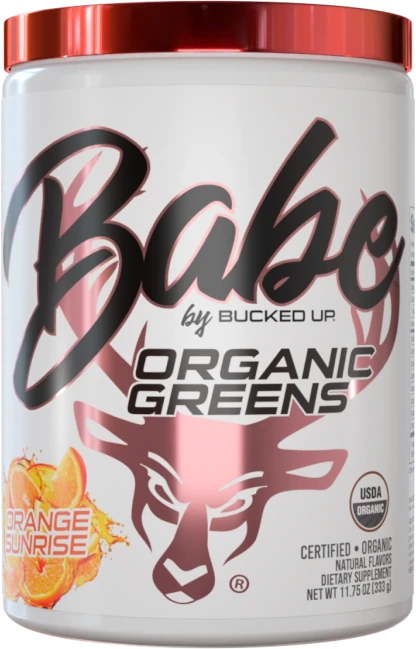
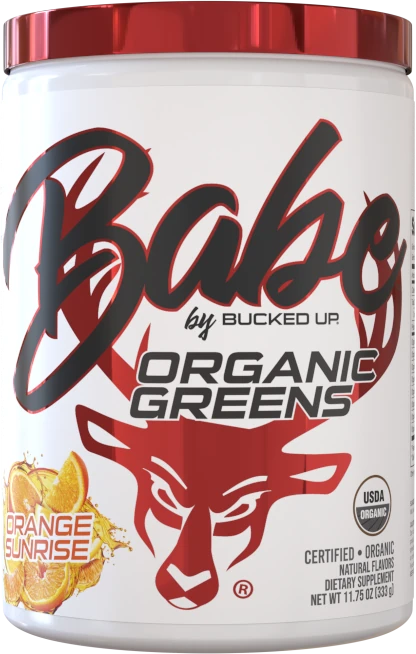
troca imagens e cores

diff --git a/src/scss/pages/index.css b/src/scss/pages/index.css
@@ -1,1 +1,1 @@
-*{box-sizing:border-box !important}a{text-decoration:none !important}main{overflow:unset !important}a,button{cursor:pointer;transition:.3s}*[role=button]{cursor:pointer;-webkit-user-select:none;-moz-user-select:none;user-select:none}svg{transition:.3s}.swiper-button-lock{display:none !important}.swiper-slide{height:unset}button,input,textarea{padding:0;margin:0;background:none;border:none;resize:none}button:hover,button:active,button:focus,input:hover,input:active,input:focus,textarea:hover,textarea:active,textarea:focus{outline:none}select{cursor:pointer}.swiper{-webkit-user-select:none;-moz-user-select:none;user-select:none}html,body,div,span,applet,object,iframe,h1,h2,h3,h4,h5,h6,p,blockquote,pre,a,abbr,acronym,address,big,cite,code,del,dfn,em,img,ins,kbd,q,s,samp,small,strike,strong,sub,sup,tt,var,b,u,i,center,dl,dt,dd,ol,ul,li,fieldset,form,label,legend,table,caption,tbody,tfoot,thead,tr,th,td,article,aside,canvas,details,embed,figure,figcaption,footer,header,hgroup,menu,nav,output,ruby,section,summary,time,mark,audio,video{margin:0;padding:0;border:0;font-size:100%;font:inherit;vertical-align:baseline}article,aside,details,figcaption,figure,footer,header,hgroup,menu,nav,section{display:block}body{line-height:1}ol,ul{list-style:none}blockquote,q{quotes:none}blockquote:before,blockquote:after,q:before,q:after{content:"";content:none}table{border-collapse:collapse;border-spacing:0}body{font-family:Poppins;background-color:#ffd7ce}.h1{color:#000;font-size:3.75rem;font-style:normal;font-weight:900;line-height:120%}@media(max-width: 1125px){.h1{font-size:1.6875rem}}.h4{color:#000;font-size:2rem;font-style:normal;font-weight:700;line-height:normal}@media(max-width: 1125px){.h4{font-size:1.375rem}}.h5{color:#000;font-size:1.625rem;font-style:normal;font-weight:700;line-height:normal}.h6{color:#000;font-size:1.1875rem;font-style:normal;font-weight:900;line-height:85.2%}@media(max-width: 1125px){.h6{font-size:1rem;font-weight:700}}.p{color:#000;font-size:1rem;font-style:normal;font-weight:400;line-height:normal}.p.bold{font-weight:700}.container{width:100%;max-width:70rem;margin:auto;padding:0 1.25rem}.btn{border-radius:6.25rem;border:1px solid #ffa296;background:var(--botao, linear-gradient(180deg, rgba(241, 124, 109, 0.14) 0%, #864840 100%));color:#000;text-align:center;text-shadow:-2px -2px 0px rgba(0,0,0,.25);font-size:3.75rem;font-style:normal;font-weight:900;line-height:normal;padding:1.88rem 2rem;width:100%;display:block;transition:0s}.btn:hover,.btn:focus{border:1px solid #ffa296;background:linear-gradient(180deg, rgba(0, 0, 0, 0.78) 0%, #0c0100 100%);color:#ff8373}@media(max-width: 1125px){.btn{padding:1.88rem;font-size:2.5rem}}.custom-pagination-bullet{width:7rem;height:-moz-fit-content;height:fit-content;background:none;transition:.3s}.swiper-pagination-bullet:not(.swiper-pagination-bullet-active){opacity:.4 !important}.swiper-pagination{position:static !important;margin:.5rem auto 0 auto !important;display:flex;justify-content:center;gap:1rem}.header{position:fixed;top:0;left:0;width:100%;z-index:999;padding:1.75rem 0;background:#ffd7ce}.header+div{padding-top:13rem}.header .container{display:flex;align-items:center}.header ul{display:flex;align-items:center;gap:1.56rem;text-transform:uppercase;margin-left:3.2rem}.header ul li a{display:block;color:#000;font-size:.875rem;font-style:normal;font-weight:800;line-height:normal;padding-bottom:1.3125rem;position:relative}.header ul li a:after{content:"";position:absolute;left:0;bottom:0;width:100%;height:.3125rem;border-radius:1.875rem;background:rgba(64,54,51,.3);transition:.3s}.header ul li a:hover:after,.header ul li a:focus:after,.header ul li a.active:after{background-color:#482b2e}.header__btn{color:#000;font-size:.875rem;font-style:normal;font-weight:700;line-height:normal;padding:.69rem 1.88rem;border-radius:6.25rem;border:1px solid #000;text-transform:uppercase;margin-left:2.81rem}.header__btn:hover,.header__btn:focus{background-color:#281819;border-color:#281819;color:#ff8375}.header__mobile-button{display:none;flex-shrink:0;padding:0;background:none;flex-direction:column;justify-content:center;align-items:center;gap:.375rem;width:2.375rem;border:none}.header__mobile-button span{width:100%;height:.3125rem;border-radius:.25rem;background-color:#000;display:block;transition:.3s}.header__mobile-button.active span:nth-child(2){width:0}.header__mobile-button.active span:nth-child(1){transform:translateY(0.6875rem) rotate(-45deg)}.header__mobile-button.active span:nth-child(3){transform:translateY(-0.6875rem) rotate(45deg)}@media(max-width: 1125px){.header{padding:1.19rem 0}.header+div{padding-top:6.5656rem}.header__mobile-button{display:flex}.header__btn{margin:0;padding:.69rem .625rem;width:100%;max-width:11.56rem;white-space:nowrap;text-align:center}.header .container{gap:10px}.header__logo{max-width:5.83rem;margin-right:auto}.header__logo img{width:100%}.header ul{position:absolute;top:100%;left:0;width:100vw;height:calc(100vh - 5.5656rem);margin:0;background-color:#ffd7ce;flex-direction:column;gap:1.06rem;max-height:0;transition:.3s;overflow:hidden}.header ul.active{display:flex;padding-top:2.69rem;max-height:100vh}}.main .animation-helper{contain:paint}.main__container{position:relative;display:flex;gap:5.5rem}.main__container section{width:100%}.main__container:not(.active){display:none}.main__container .content{width:57.9%}.main__img{position:sticky;top:13rem;width:32.5%;height:-moz-fit-content;height:fit-content;max-width:26rem;animation:forwards fadeIn .5s}.main__img .swiper img{max-height:calc(100vh - 23.3125rem)}.main__img img{max-height:calc(100vh - 14.3125rem);-o-object-fit:scale-down;object-fit:scale-down;width:100%}.main__img__img{width:100%}@media(max-width: 1125px){.main__img{position:static;width:100%;max-width:17rem;margin:auto}}@media(max-width: 1125px){.main__container .content{width:100%}}.main__bg{position:fixed;z-index:-1;top:0;left:0;width:100vw;height:100vh;min-width:75rem;background:var(--radialo-novo, radial-gradient(221.11% 86.4% at 74.11% 52.3%, #ffaea3 0%, #ffa190 27.06%, #fe8272 48.5%));transition:.3s;transform:scaleX(1.2) rotate(15deg)}.main__bg.alternate{transform:scaleX(1.2) rotate(-15deg)}.main__bg img{width:100%;height:100%;-o-object-fit:cover;object-fit:cover;display:none}@media(max-width: 1125px){.main__bg{background:radial-gradient(176.6% 80.71% at 74.11% 52.3%, #ffaea3 0%, #ffa190 27.06%, #fe8272 48.5%)}}@keyframes fadeIn{from{transform:translateX(30vw);filter:blur(17px)}to{transform:translateX(0);filter:blur(0)}}.banner{margin-bottom:3.75rem}.banner .iframe{position:relative;-webkit-user-select:none;-moz-user-select:none;user-select:none;border-radius:1.875rem;overflow:hidden;margin:2.75rem 0;aspect-ratio:16/9}.banner .iframe iframe{width:100%;height:100%}.banner .iframe:after{content:"";width:100%;height:100%;position:absolute;top:0;left:0}.banner .p{margin:1rem 0}.banner .h6{margin-top:3.38rem}@media(max-width: 1125px){.banner{margin-bottom:1.94rem}.banner .h1{text-align:center;margin-bottom:1rem}.banner .iframe{margin:1rem 0}.banner .h6{margin:1.5rem 0}}.benefits .h1{margin-bottom:2rem}.benefits__benefit{display:flex;align-items:center;justify-content:space-between;gap:3.31rem;margin-bottom:3.46rem}.benefits__benefit img{max-width:13.4375rem}.benefits__benefit:nth-child(even){flex-direction:row-reverse}@media(max-width: 1125px){.benefits__benefit{gap:1.25rem}.benefits__benefit img{max-width:10.1875rem}}.key-ingredients{margin-bottom:4rem}.key-ingredients .h1{margin-bottom:2rem}.key-ingredients ul{display:flex;flex-wrap:wrap;gap:1.6rem 1.25rem;margin-bottom:3rem}.key-ingredients ul li{flex:1 1 15.9375rem}
+*{box-sizing:border-box !important}a{text-decoration:none !important}main{overflow:unset !important}a,button{cursor:pointer;transition:.3s}*[role=button]{cursor:pointer;-webkit-user-select:none;-moz-user-select:none;user-select:none}svg{transition:.3s}.swiper-button-lock{display:none !important}.swiper-slide{height:unset}button,input,textarea{padding:0;margin:0;background:none;border:none;resize:none}button:hover,button:active,button:focus,input:hover,input:active,input:focus,textarea:hover,textarea:active,textarea:focus{outline:none}select{cursor:pointer}.swiper{-webkit-user-select:none;-moz-user-select:none;user-select:none}html,body,div,span,applet,object,iframe,h1,h2,h3,h4,h5,h6,p,blockquote,pre,a,abbr,acronym,address,big,cite,code,del,dfn,em,img,ins,kbd,q,s,samp,small,strike,strong,sub,sup,tt,var,b,u,i,center,dl,dt,dd,ol,ul,li,fieldset,form,label,legend,table,caption,tbody,tfoot,thead,tr,th,td,article,aside,canvas,details,embed,figure,figcaption,footer,header,hgroup,menu,nav,output,ruby,section,summary,time,mark,audio,video{margin:0;padding:0;border:0;font-size:100%;font:inherit;vertical-align:baseline}article,aside,details,figcaption,figure,footer,header,hgroup,menu,nav,section{display:block}body{line-height:1}ol,ul{list-style:none}blockquote,q{quotes:none}blockquote:before,blockquote:after,q:before,q:after{content:"";content:none}table{border-collapse:collapse;border-spacing:0}body{font-family:Poppins;background-color:#ffe9dd}.h1{color:#000;font-size:3.75rem;font-style:normal;font-weight:900;line-height:120%}@media(max-width: 1125px){.h1{font-size:1.6875rem}}.h4{color:#000;font-size:2rem;font-style:normal;font-weight:700;line-height:normal}@media(max-width: 1125px){.h4{font-size:1.375rem}}.h5{color:#000;font-size:1.625rem;font-style:normal;font-weight:700;line-height:normal}.h6{color:#000;font-size:1.1875rem;font-style:normal;font-weight:900;line-height:85.2%}@media(max-width: 1125px){.h6{font-size:1rem;font-weight:700}}.p{color:#000;font-size:1rem;font-style:normal;font-weight:400;line-height:normal}.p.bold{font-weight:700}.container{width:100%;max-width:70rem;margin:auto;padding:0 1.25rem}.btn{border-radius:6.25rem;border:1px solid #ffa296;background:linear-gradient(180deg, #f17c6d 0%, #864840 100%);color:#000;text-align:center;text-shadow:-2px -2px 0px rgba(0,0,0,.25);font-size:3.75rem;font-style:normal;font-weight:900;line-height:normal;padding:1.88rem 2rem;width:100%;display:block;transition:0s}.btn:hover,.btn:focus{border:1px solid #d55353;background:linear-gradient(180deg, rgba(0, 0, 0, 0.78) 0%, #0c0100 100%);color:#d55353}@media(max-width: 1125px){.btn{padding:1.88rem;font-size:2.5rem}}.custom-pagination-bullet{width:7rem;height:-moz-fit-content;height:fit-content;background:none;transition:.3s}.swiper-pagination-bullet:not(.swiper-pagination-bullet-active){opacity:.4 !important}.swiper-pagination{position:static !important;margin:.5rem auto 0 auto !important;display:flex;justify-content:center;gap:1rem}.header{position:fixed;top:0;left:0;width:100%;z-index:999;padding:1.75rem 0;background:#ffe9dd}.header+div{padding-top:13rem}.header .container{display:flex;align-items:center}.header ul{display:flex;align-items:center;gap:1.31rem;text-transform:uppercase;margin-left:3.2rem}.header ul li a{display:block;color:#000;font-size:.875rem;font-style:normal;font-weight:800;line-height:normal;padding-bottom:1.3125rem;position:relative}.header ul li a:after{content:"";position:absolute;left:0;bottom:0;width:100%;height:.3125rem;border-radius:1.875rem;background:rgba(64,54,51,.3);transition:.3s}.header ul li a:hover:after,.header ul li a:focus:after,.header ul li a.active:after{background-color:#d55353}.header__btn{color:#000;font-size:.875rem;font-style:normal;font-weight:700;line-height:normal;padding:.69rem 1.88rem;border-radius:6.25rem;border:1px solid #000;text-transform:uppercase;margin-left:2.81rem}.header__btn:hover,.header__btn:focus{background-color:#281819;border-color:#281819;color:#d55353}.header__mobile-button{display:none;flex-shrink:0;padding:0;background:none;flex-direction:column;justify-content:center;align-items:center;gap:.375rem;width:2.375rem;border:none}.header__mobile-button span{width:100%;height:.3125rem;border-radius:.25rem;background-color:#000;display:block;transition:.3s}.header__mobile-button.active span:nth-child(2){width:0}.header__mobile-button.active span:nth-child(1){transform:translateY(0.6875rem) rotate(-45deg)}.header__mobile-button.active span:nth-child(3){transform:translateY(-0.6875rem) rotate(45deg)}@media(max-width: 1125px){.header{padding:1.19rem 0}.header+div{padding-top:6.5656rem}.header__mobile-button{display:flex}.header__btn{margin:0;padding:.69rem .625rem;width:100%;max-width:11.56rem;white-space:nowrap;text-align:center}.header .container{gap:10px}.header__logo{max-width:5.83rem;margin-right:auto}.header__logo img{width:100%}.header ul{position:absolute;top:100%;left:0;width:100vw;height:calc(100vh - 5.5656rem);margin:0;background-color:#ffe9dd;flex-direction:column;gap:1.06rem;max-height:0;transition:.3s;overflow:hidden}.header ul.active{display:flex;padding-top:2.69rem;max-height:100vh}}.main .animation-helper{contain:paint}.main__container{position:relative;display:flex;gap:5.5rem}.main__container section{width:100%}.main__container:not(.active){display:none}.main__container .content{width:57.9%}.main__img{position:sticky;top:13rem;width:32.5%;height:-moz-fit-content;height:fit-content;max-width:26rem;animation:forwards fadeIn .5s}.main__img .swiper img{max-height:calc(100vh - 23.3125rem)}.main__img img{max-height:calc(100vh - 14.3125rem);-o-object-fit:scale-down;object-fit:scale-down;width:100%}.main__img__img{width:100%}@media(max-width: 1125px){.main__img{position:static;width:100%;max-width:17rem;margin:auto}}@media(max-width: 1125px){.main__container .content{width:100%}}.main__bg{position:fixed;z-index:-1;top:0;left:0;width:100vw;height:100vh;min-width:75rem;background:var(--radialo-novo, radial-gradient(221.11% 86.4% at 74.11% 52.3%, #ffaea3 0%, #ffa190 27.06%, #fe8272 48.5%));transition:.3s;transform:scaleX(1.2) rotate(15deg)}.main__bg.alternate{transform:scaleX(1.2) rotate(-15deg)}.main__bg img{width:100%;height:100%;-o-object-fit:cover;object-fit:cover;display:none}@media(max-width: 1125px){.main__bg{background:radial-gradient(176.6% 80.71% at 74.11% 52.3%, #ffaea3 0%, #ffa190 27.06%, #fe8272 48.5%)}}@keyframes fadeIn{from{transform:translateX(30vw);filter:blur(17px)}to{transform:translateX(0);filter:blur(0)}}.banner{margin-bottom:3.75rem}.banner .iframe{position:relative;-webkit-user-select:none;-moz-user-select:none;user-select:none;border-radius:1.875rem;overflow:hidden;margin:2.75rem 0;aspect-ratio:16/9}.banner .iframe iframe{width:100%;height:100%}.banner .iframe:after{content:"";width:100%;height:100%;position:absolute;top:0;left:0}.banner .p{margin:1rem 0}.banner .h6{margin-top:3.38rem}@media(max-width: 1125px){.banner{margin-bottom:1.94rem}.banner .h1{text-align:center;margin-bottom:1rem}.banner .iframe{margin:1rem 0}.banner .h6{margin:1.5rem 0}}.benefits .h1{margin-bottom:2rem}.benefits__benefit{display:flex;align-items:center;justify-content:space-between;gap:3.31rem;margin-bottom:3.46rem}.benefits__benefit img{max-width:13.4375rem}.benefits__benefit:nth-child(even){flex-direction:row-reverse}@media(max-width: 1125px){.benefits__benefit{gap:1.25rem}.benefits__benefit img{max-width:10.1875rem}}.key-ingredients{margin-bottom:4rem}.key-ingredients .h1{margin-bottom:2rem}.key-ingredients ul{display:flex;flex-wrap:wrap;gap:1.6rem 1.25rem;margin-bottom:3rem}.key-ingredients ul li{flex:1 1 15.9375rem}

diff --git a/index.html b/index.html
@@ -25,9 +25,10 @@
     <section class="header">
       <nav class="container">
         <a href="/" class="header__logo">
-          <img src="https://v.fastcdn.co/u/0c47ee1e/64522816-0-logo.svg" loading="lazy" alt="Babe by Bucked Up">
+          <img src="https://v.fastcdn.co/u/0c47ee1e/64540048-0-logo.svg" loading="lazy" alt="Babe by Bucked Up">
         </a>
         <ul>
+          <li><a href="https://get.buckedup.com/babelp">home</a></li>
           <li><a class="page-link" to="pre-workout">pre-workout</a></li>
           <li><a class="page-link" to="greens">organic greens</a></li>
           <li><a class="page-link" to="collagen">collagen</a></li>
@@ -129,23 +130,23 @@
               <div class="swiper-slide">
                 <picture>
                   <source media="(min-width:1126px)"
-                    srcset="https://v.fastcdn.co/u/0c47ee1e/64522442-0-pre-fruit-punch.webp">
-                  <img src="https://v.fastcdn.co/u/0c47ee1e/64522443-0-pre-fruit-punch-mobi.webp"
+                    srcset="https://v.fastcdn.co/u/0c47ee1e/64540070-0-pre-fruit-punch.webp">
+                  <img src="https://v.fastcdn.co/u/0c47ee1e/64540069-0-pre-fruit-punch-mobi.webp"
                     alt="Pre Fruit Punch">
                 </picture>
               </div>
               <div class="swiper-slide">
                 <picture>
                   <source media="(min-width:1126px)"
-                    srcset="https://v.fastcdn.co/u/0c47ee1e/64522444-0-pre-grape.webp">
-                  <img src="https://v.fastcdn.co/u/0c47ee1e/64522445-0-pre-grape-mobile.webp" alt="Pre Grape">
+                    srcset="https://v.fastcdn.co/u/0c47ee1e/64540068-0-pre-orchard.webp">
+                  <img src="https://v.fastcdn.co/u/0c47ee1e/64540067-0-pre-orchard-mobile.webp" alt="Pre Sparkling Orchard">
                 </picture>
               </div>
               <div class="swiper-slide">
                 <picture>
                   <source media="(min-width:1126px)"
-                    srcset="https://v.fastcdn.co/u/0c47ee1e/64522446-0-pre-watermelon.webp">
-                  <img src="https://v.fastcdn.co/u/0c47ee1e/64522447-0-pre-watermelon-mobil.webp"
+                    srcset="https://v.fastcdn.co/u/0c47ee1e/64540066-0-pre-watermelon.webp">
+                  <img src="https://v.fastcdn.co/u/0c47ee1e/64540065-0-pre-watermelon-mobil.webp"
                     alt="Pre Watermelon">
                 </picture>
               </div>
@@ -250,8 +251,8 @@
         </div>
         <div class="main__img">
           <picture>
-            <source media="(min-width:1126px)" srcset="https://v.fastcdn.co/u/0c47ee1e/64522439-0-organic.webp">
-            <img class="main__img__img" src="https://v.fastcdn.co/u/0c47ee1e/64522440-0-organic-mobile.webp"
+            <source media="(min-width:1126px)" srcset="https://v.fastcdn.co/u/0c47ee1e/64540060-0-organic.webp">
+            <img class="main__img__img" src="https://v.fastcdn.co/u/0c47ee1e/64540059-0-organic-mobile.webp"
               alt="Organic Greens">
           </picture>
         </div>
@@ -348,17 +349,17 @@
               <div class="swiper-slide">
                 <picture>
                   <source media="(min-width:1126px)"
-                    srcset="https://v.fastcdn.co/u/0c47ee1e/64522421-0-collagen-chocolate.webp">
-                  <img src="https://v.fastcdn.co/u/0c47ee1e/64522422-0-collagen-chocolate-m.webp"
+                    srcset="https://v.fastcdn.co/u/0c47ee1e/64540064-0-collagen-chocolate.webp">
+                  <img src="https://v.fastcdn.co/u/0c47ee1e/64540063-0-collagen-chocolate-m.webp"
                     alt="Collagen Chocolate">
                 </picture>
               </div>
               <div class="swiper-slide">
                 <picture>
                   <source media="(min-width:1126px)"
-                    srcset="https://v.fastcdn.co/u/0c47ee1e/64522419-0-collagen-blueberry-p.webp">
+                    srcset="https://v.fastcdn.co/u/0c47ee1e/64540062-0-collagen-blueberry.webp">
                   <img
-                    src="https://v.fastcdn.co/u/0c47ee1e/64522420-0-collagen-blueberry-p.webp"
+                    src="https://v.fastcdn.co/u/0c47ee1e/64540061-0-collagen-blueberry-m.webp"
                     alt="Collagen Blueberry Pomegranate">
                 </picture>
               </div>
@@ -463,8 +464,8 @@
         </div>
         <div class="main__img">
           <picture>
-            <source media="(min-width:1126px)" srcset="https://v.fastcdn.co/u/0c47ee1e/64522432-0-love.webp">
-            <img class="main__img__img" src="https://v.fastcdn.co/u/0c47ee1e/64522435-0-love-mobile.webp"
+            <source media="(min-width:1126px)" srcset="https://v.fastcdn.co/u/0c47ee1e/64540052-0-babe-love.webp">
+            <img class="main__img__img" src="https://v.fastcdn.co/u/0c47ee1e/64540051-0-babe-love-mobile.webp"
               alt="Babe Love">
           </picture>
         </div>
@@ -586,9 +587,9 @@
         <div class="main__img">
           <picture>
             <source media="(min-width:1126px)"
-              srcset="https://v.fastcdn.co/u/0c47ee1e/64522403-0-babe-balance.webp">
+              srcset="https://v.fastcdn.co/u/0c47ee1e/64540050-0-babe-balance.webp">
             <img class="main__img__img"
-              src="https://v.fastcdn.co/u/0c47ee1e/64522404-0-babe-balance-mobile.webp" alt="Babe Balance">
+              src="https://v.fastcdn.co/u/0c47ee1e/64540049-0-babe-balance-mobile.webp" alt="Babe Balance">
           </picture>
         </div>
       </div>
@@ -679,24 +680,24 @@
               <div class="swiper-slide">
                 <picture>
                   <source media="(min-width:1126px)"
-                    srcset="https://v.fastcdn.co/u/0c47ee1e/64522415-0-boost-pineapple.webp">
-                  <img src="https://v.fastcdn.co/u/0c47ee1e/64522416-0-boost-pineapple-mobi.webp"
+                    srcset="https://v.fastcdn.co/u/0c47ee1e/64540056-0-boost-pineapple.webp">
+                  <img src="https://v.fastcdn.co/u/0c47ee1e/64540055-0-boost-pineapple-mobi.webp"
                     alt="Boost Green Pineapple">
                 </picture>
               </div>
               <div class="swiper-slide">
                 <picture>
                   <source media="(min-width:1126px)"
-                    srcset="https://v.fastcdn.co/u/0c47ee1e/64522405-0-boost-black-cherry.webp">
-                  <img src="https://v.fastcdn.co/u/0c47ee1e/64522406-0-boost-black-cherry-m.webp"
+                    srcset="https://v.fastcdn.co/u/0c47ee1e/64540054-0-boost-blackberry.webp">
+                  <img src="https://v.fastcdn.co/u/0c47ee1e/64540053-0-boost-blackberry-mob.webp"
                     alt="Boost Black Cherry">
                 </picture>
               </div>
               <div class="swiper-slide">
                 <picture>
                   <source media="(min-width:1126px)"
-                    srcset="https://v.fastcdn.co/u/0c47ee1e/64522412-0-boost-peach-mango.webp">
-                  <img src="https://v.fastcdn.co/u/0c47ee1e/64522414-0-boost-peach-mango-mo.webp"
+                    srcset="https://v.fastcdn.co/u/0c47ee1e/64540058-0-boost-peachmango.webp">
+                  <img src="https://v.fastcdn.co/u/0c47ee1e/64540057-0-boost-peachmango-mob.webp"
                     alt="Boost Peach Mango">
                 </picture>
               </div>

diff --git a/src/scss/components/_header.scss b/src/scss/components/_header.scss
@@ -5,7 +5,7 @@
   width: 100%;
   z-index: 999;
   padding: 1.75rem 0;
-  background: #ffd7ce;
+  background: #ffe9dd;
   & + div {
     padding-top: 13rem;
   }
@@ -16,7 +16,7 @@
   ul {
     display: flex;
     align-items: center;
-    gap: 1.56rem;
+    gap: 1.31rem;
     text-transform: uppercase;
     margin-left: 3.2rem;
     li {
@@ -37,14 +37,14 @@
           width: 100%;
           height: 0.3125rem;
           border-radius: 1.875rem;
-          background: rgba(64, 54, 51, 0.30);
+          background: rgba(64, 54, 51, 0.3);
           transition: 0.3s;
         }
         &:hover,
         &:focus,
         &.active {
           &:after {
-            background-color: #482b2e;
+            background-color: #d55353;
           }
         }
       }
@@ -65,7 +65,7 @@
     &:focus {
       background-color: #281819;
       border-color: #281819;
-      color: #ff8375;
+      color: #d55353;
     }
   }
   &__mobile-button {
@@ -137,7 +137,7 @@
       width: 100vw;
       height: calc(100vh - 5.5656rem);
       margin: 0;
-      background-color: #ffd7ce;
+      background-color: #ffe9dd;
       flex-direction: column;
       gap: 1.06rem;
       max-height: 0;

diff --git a/src/scss/utils/_common.scss b/src/scss/utils/_common.scss
@@ -8,10 +8,7 @@
 .btn {
   border-radius: 6.25rem;
   border: 1px solid #ffa296;
-  background: var(
-    --botao,
-    linear-gradient(180deg, rgba(241, 124, 109, 0.14) 0%, #864840 100%)
-  );
+  background: linear-gradient(180deg, #f17c6d 0%, #864840 100%);
   color: black;
   text-align: center;
   text-shadow: -2px -2px 0px rgba(0, 0, 0, 0.25);
@@ -25,9 +22,9 @@
   transition: 0s;
   &:hover,
   &:focus {
-    border: 1px solid #ffa296;
+    border: 1px solid #d55353;
     background: linear-gradient(180deg, rgba(0, 0, 0, 0.78) 0%, #0c0100 100%);
-    color: #ff8373;
+    color: #d55353;
   }
   @media (max-width: 1125px) {
     padding: 1.88rem;

diff --git a/src/scss/utils/_globalStyle.scss b/src/scss/utils/_globalStyle.scss
@@ -1,6 +1,6 @@
 body {
   font-family: Poppins;
-  background-color: #ffd7ce;
+  background-color: #ffe9dd;
 }
 
 .h1 {
